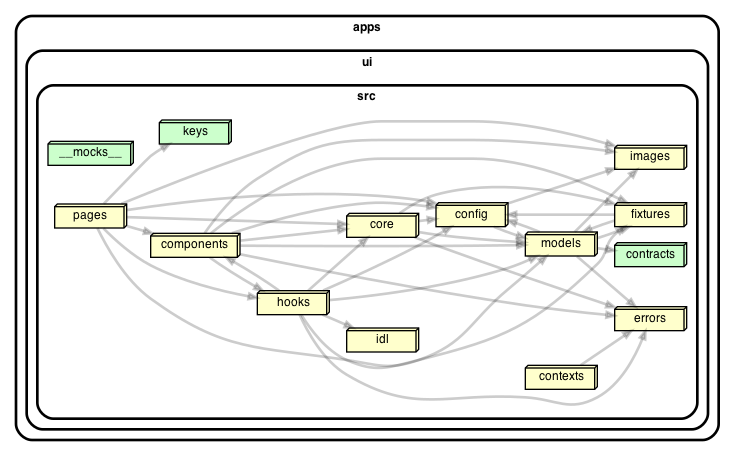
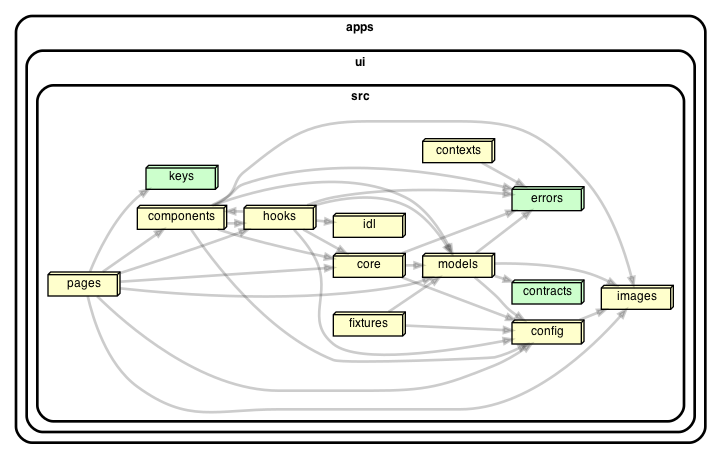
docs(ui): update dependency graphs to exclude tests and storybooks

diff --git a/docs/dependency_graphs/README.md b/docs/dependency_graphs/README.md
@@ -31,20 +31,20 @@ Execute these commands in _root_ directory
 #### Relationship between root directories in UI
 
 ```sh
-yarn exec depcruise --include-only "^apps/ui/src/.+/" --collapse 4 --output-type dot apps/ui/src |\
+yarn exec depcruise --include-only "^apps/ui/src/.+/" --exclude "__mocks__/|\\.(stories|test)\\.(js|ts|tsx)" --collapse 4 --output-type dot apps/ui/src |\
   dot -T png > docs/dependency_graphs/ui_root_directories.png
 ```
 
 #### Relationship between directories in `hooks` in UI
 
 ```sh
-yarn exec depcruise --include-only "^apps/ui/src/hooks/.+/" --collapse 5 --output-type dot apps/ui/src |\
+yarn exec depcruise --include-only "^apps/ui/src/hooks/.+/" --exclude "__mocks__/|\\.(stories|test)\\.(js|ts|tsx)" --collapse 5 --output-type dot apps/ui/src |\
   dot -T png > docs/dependency_graphs/ui_hook_directories.png
 ```
 
 #### Relationship between directories in `models` in UI
 
 ```sh
-yarn exec depcruise --include-only "^apps/ui/src/models/.+/" --collapse 5 --output-type dot apps/ui/src |\
+yarn exec depcruise --include-only "^apps/ui/src/models/.+/" --exclude "__mocks__/|\\.(stories|test)\\.(js|ts|tsx)" --collapse 5 --output-type dot apps/ui/src |\
   dot -T png > docs/dependency_graphs/ui_model_directories.png
 ```
